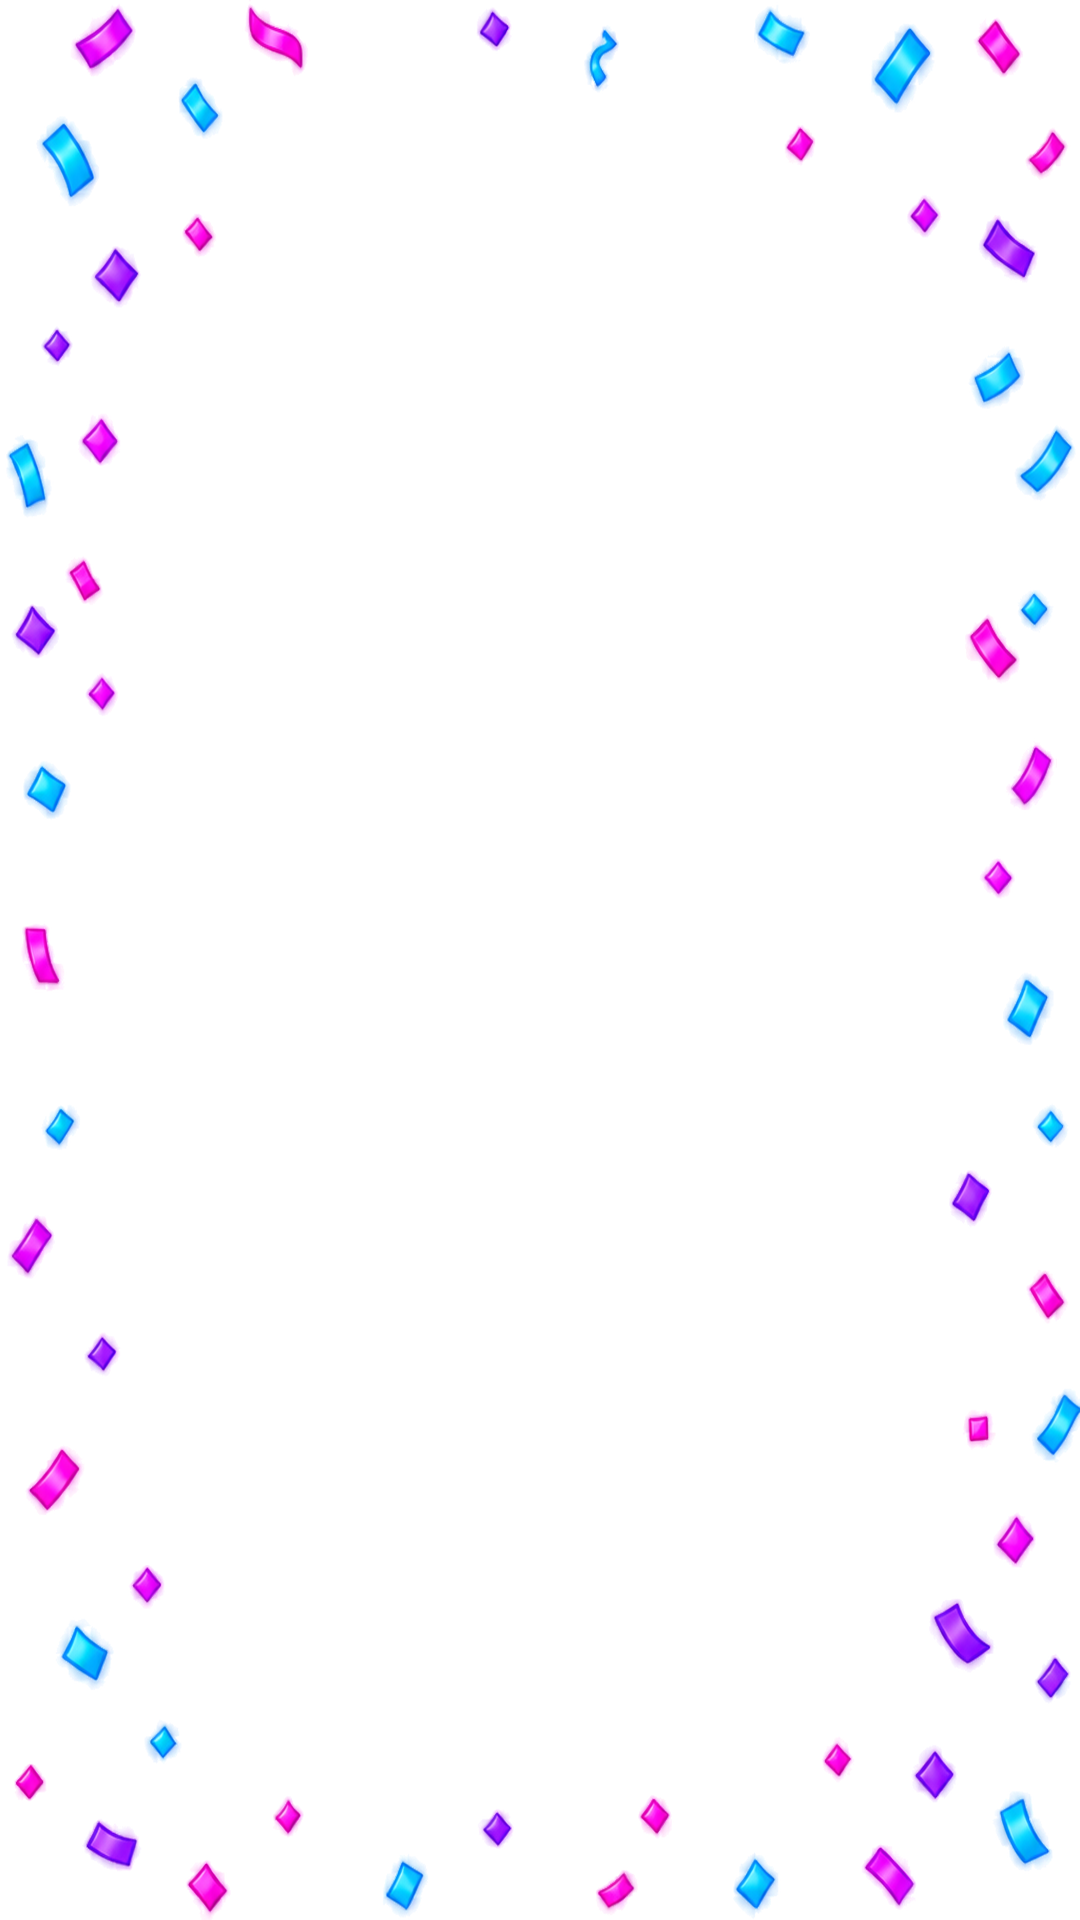
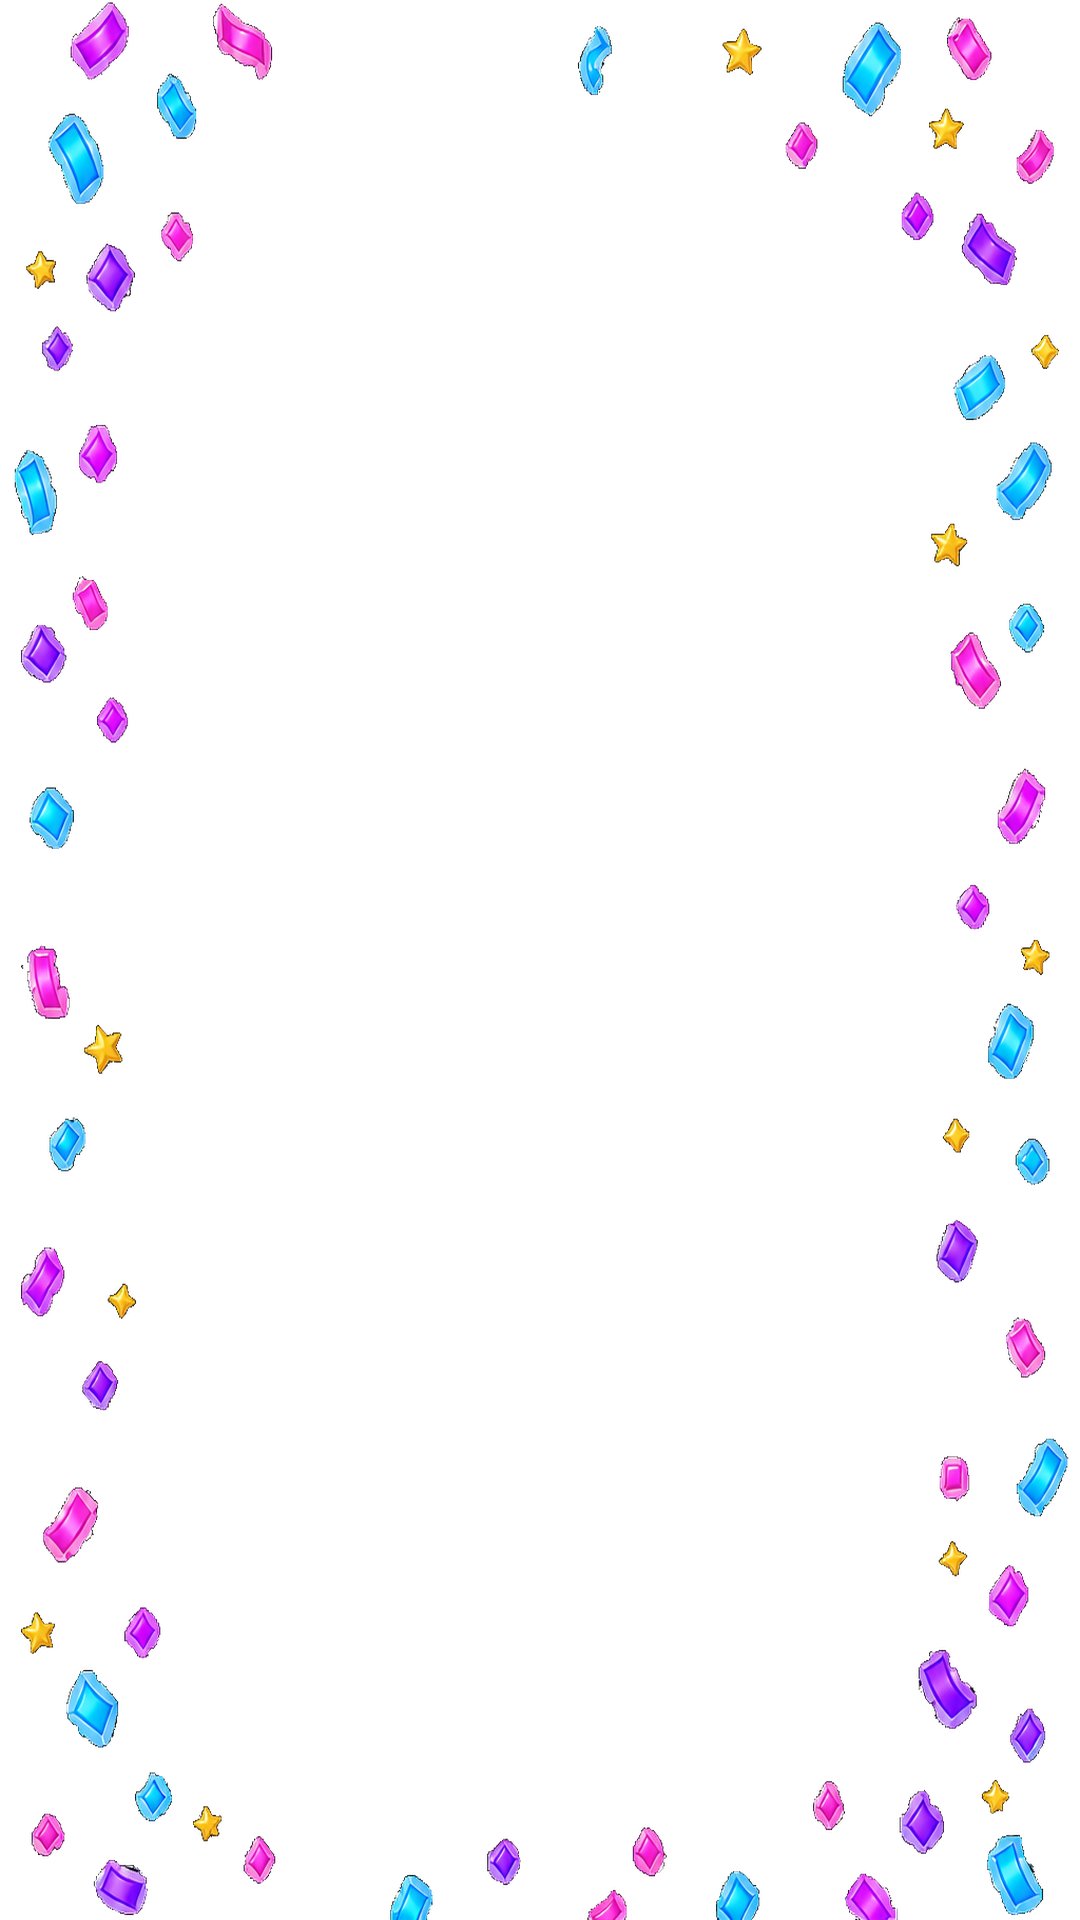
feat(mainmenu): add missing mockup art and wire it
Home now uses the girl opponent, smiling star, chat bubbles,
target-calendar, circular blue settings, gold trophy, and a festive
night-arcade background. Settings is a visible circular button. The
synthwave horizon/lightning/number overlays stay hidden. The chip
still shows the live streak, not a fake 450.

diff --git a/Assets/SCRIPT/Design/MainMenuAuthoritativeVisuals.cs b/Assets/SCRIPT/Design/MainMenuAuthoritativeVisuals.cs
@@ -22,9 +22,6 @@ public sealed class MainMenuAuthoritativeVisuals : MonoBehaviour
     float nextPoll;
 
     Sprite background;
-    Sprite horizon;
-    Sprite lightning;
-    Sprite numbers;
     Sprite stars;
     Sprite confetti;
     Sprite logoGlow;
@@ -221,11 +218,11 @@ public sealed class MainMenuAuthoritativeVisuals : MonoBehaviour
         Stretch(bg.rectTransform);
         bg.transform.SetAsFirstSibling();
 
-        AddStretchedImage("HomeHorizon", horizon);
         AddStretchedImage("HomeStars", stars);
-        AddStretchedImage("HomeNumbers", numbers);
-        AddStretchedImage("HomeLightning", lightning);
         AddStretchedImage("HomeConfetti", confetti);
+        HideNamed(safeAreaRoot, "HomeHorizon");
+        HideNamed(safeAreaRoot, "HomeLightning");
+        HideNamed(safeAreaRoot, "HomeNumbers");
 
         AddImage("HomeLogoGlow", logoGlow,
             new Vector2(0f, 650f), new Vector2(800f, 450f), true);
@@ -256,10 +253,12 @@ public sealed class MainMenuAuthoritativeVisuals : MonoBehaviour
         if (chip == null) return;
         chip.type = Image.Type.Sliced;
 
+        AddImage(chip.transform, "HomeChipAvatar", playerHero,
+            new Vector2(-148f, 0f), new Vector2(64f, 64f), true);
         AddImage(chip.transform, "HomeStreakIcon", streakIcon,
-            new Vector2(-150f, 0f), new Vector2(58f, 58f), true);
+            new Vector2(-92f, 0f), new Vector2(42f, 42f), true);
         var text = EnsureText(chip.transform, "HomePlayerChipText", 25f, NearWhite);
-        Place(text.rectTransform, new Vector2(35f, 0f), new Vector2(285f, 74f));
+        Place(text.rectTransform, new Vector2(48f, 0f), new Vector2(240f, 74f));
         text.fontStyle = FontStyles.Bold;
         text.alignment = TextAlignmentOptions.Center;
         ConfigureText(text, 15f);
@@ -305,7 +304,7 @@ public sealed class MainMenuAuthoritativeVisuals : MonoBehaviour
         // instances remain untouched.
         Vector2 stacked = new Vector2(900f, 156f);
         Reparent(play, new Vector2(0f, 90f), stacked);
-        Reparent(settings, new Vector2(-455f, 820f), new Vector2(82f, 82f));
+        Reparent(settings, new Vector2(-455f, 820f), new Vector2(96f, 96f));
         Reparent(privateRoom, new Vector2(0f, -90f), stacked);
         Reparent(daily, new Vector2(0f, -270f), stacked);
 
@@ -313,9 +312,6 @@ public sealed class MainMenuAuthoritativeVisuals : MonoBehaviour
         StyleButtonImage(privateRoom, ctaBlue, Image.Type.Sliced);
         StyleButtonImage(daily, ctaMagenta, Image.Type.Sliced);
         StyleButtonImage(settings, gear, Image.Type.Simple);
-        var settingsGraphic = settings.GetComponent<Image>();
-        if (settingsGraphic != null)
-            settingsGraphic.color = new Color(1f, 1f, 1f, 0.001f);
 
         HideLegacyButtonCopy(play);
         HideLegacyButtonCopy(privateRoom);
@@ -329,10 +325,7 @@ public sealed class MainMenuAuthoritativeVisuals : MonoBehaviour
         BuildStackedCtaCopy(daily, "HomeDailyTitle", "HomeDailySubtitle", "HomeDailyChevron",
             dailyIcon, 32f, 20f, NearWhite);
 
-        var settingsIcon = AddImage(settings.transform, "HomeSettingsIcon", gear,
-            Vector2.zero, new Vector2(82f, 82f), true);
-        if (settingsIcon != null)
-            settingsIcon.transform.SetAsLastSibling();
+        HideNamed(settings.transform, "HomeSettingsIcon");
 
         var primary = AddImage(play.transform, "HomePrimaryGloss", primaryGloss,
             Vector2.zero, Vector2.zero, false);
@@ -501,9 +494,6 @@ public sealed class MainMenuAuthoritativeVisuals : MonoBehaviour
     void LoadProductionSprites()
     {
         background = Load("mainmenu_bg_night_arcade");
-        horizon = Load("mainmenu_deco_horizon_overlay");
-        lightning = Load("mainmenu_deco_lightning_overlay");
-        numbers = Load("mainmenu_deco_numbers_overlay");
         stars = Load("mainmenu_deco_stars_overlay");
         confetti = Load("mainmenu_deco_confetti_overlay");
         logoGlow = Load("mainmenu_glow_logo");

diff --git a/Assets/newdesign/Resources/mainmenu/README.md b/Assets/newdesign/Resources/mainmenu/README.md
@@ -14,11 +14,12 @@ These files are byte-for-byte copies from `Resources/reference/`:
 
 ## Generated chrome and decor
 
-- Deep-indigo night-arcade background
-- Confetti, horizon-light, lightning, floating-number, and star overlays
+- Festive indigo night-arcade background with confetti and stars
+- Confetti and star overlays (horizon/lightning/number overlays stay in the pack but Home no longer shows them)
 - Gold, cyan, violet, and magenta pill controls
 - Daily Hunt, player-chip, and tip frames
-- Settings, solo, dormant 1V1, private-room, Daily Hunt, streak, and tip icons
+- Circular blue settings, smiling-star Solo, chat-bubble Private Room,
+  target-plus-calendar Daily Hunt, gold trophy, dormant 1V1, and tip icons
 - Logo, primary-action, and secondary-row glow/highlight layers
 
 All generated layers use clean alpha edges. Unity L/B/R/T 9-slice borders are

diff --git a/CHANGELOG.md b/CHANGELOG.md
@@ -24,7 +24,10 @@ Play Console versionName in `ProjectSettings.asset`.
   chevrons; Daily Hunt uses the magenta 9-slice; the tip is the bigger-
   numbers line, not the AI-disclosure sentence. Private Room remains
   create/join. Dormant 1V1 assets stay unwired. The player chip still
-  shows the real streak, not a mock trophy count.
+  shows the real streak, not a mock trophy count. Missing mockup art is
+  now in the Home pack: girl opponent, smiling star, chat bubbles,
+  target-plus-calendar, circular blue settings, gold trophy, and a
+  festive night-arcade background.
 
 ### Fixed
 
